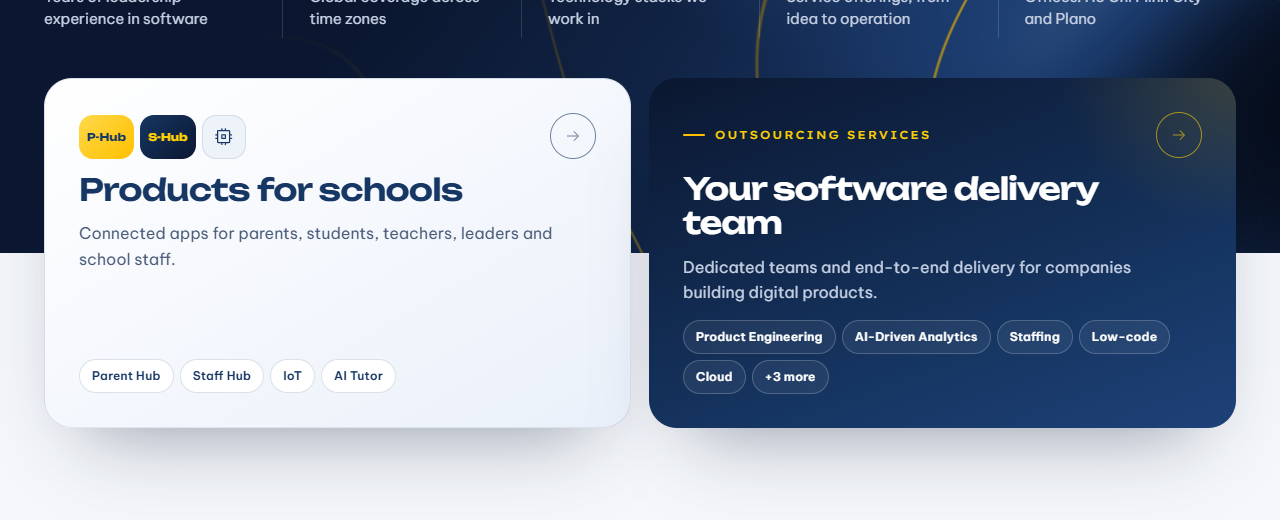
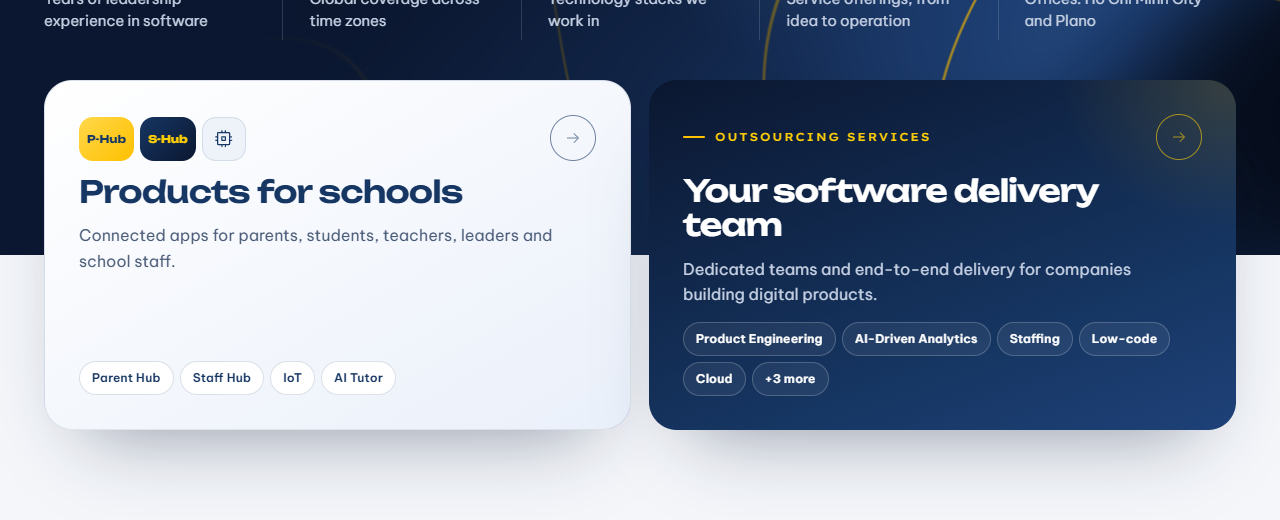
docs: E-S1 Home review triage and re-verified evidence

diff --git a/_bmad-output/implementation-artifacts/spec-enh-s1-home.md b/_bmad-output/implementation-artifacts/spec-enh-s1-home.md
@@ -2,7 +2,7 @@
 title: 'E-S1 Home matches the prototype'
 type: 'feature'
 created: '2026-10-08'
-status: 'in-progress'
+status: 'in-review'
 route: 'dispatch'
 review_loop_iteration: 0
 baseline_commit: 'c8cb49cd8a71bebd2924cfad013d52a8155e0745'
@@ -112,7 +112,7 @@ stay as they are.
 | Capabilities | Load at 1280px | — | "Capabilities." + lede; four cards in two rows (7+5 columns) | Static | CAP-3, `site.css:658-665` |  ✅ walk (689 + 487px rows); `capabilities.test.tsx` |
 | Capabilities | Load at 900px and below | — | One card per row | Static | `site.css:718-729` |  ✅ walk (358px at 390); `a11y.spec.ts` reflow |
 | Global delivery | Load with JS | — | Plano and HCMC chips show live times; without JS "US Central" and "GMT+7" | Ticks each minute | CAP-3, Story 5.1 |  ✅ walk (live times; no-JS zone labels); `capabilities.test.tsx` |
-| "+3" button | Click, then click again | Mouse, touch, pen | Healthcare, Logistics, Private Equity appear, then hide; `aria-expanded` follows | Instant | CAP-3, `site.js:218-222` |  ✅ walk: touch and pen tap twice hide it; mouse: hides when the pointer leaves (hover reveal, as in the prototype); `capabilities.test.tsx` |
+| "+3" button | Click, then click again | Mouse, touch, pen | Healthcare, Logistics, Private Equity appear, then hide; `aria-expanded` follows | Instant | CAP-3, `site.js:218-222` |  ✅ walk (mouse second click and touch second tap hide it); `capabilities.test.tsx`; `a11y.spec.ts` doors/+3 |
 | "+3" button | Enter or Space | Keyboard | Same as click; focus stays on the button | Instant | CAP-3 |  ✅ walk; `capabilities.test.tsx` |
 | "+3" button | Focus leaves the reveal area | Keyboard | List closes | Instant | `site.js:218-222` |  ✅ `capabilities.test.tsx` (focus-out) |
 | "+3" button | No JavaScript | — | Industries readable in the HTML; button name lists them | Static | CAP-3 |  ✅ walk (JS off); `capabilities.test.tsx`; `e2e/home-hero.spec.ts` |
@@ -129,6 +129,43 @@ stay as they are.
 ## Spec Change Log
 
 ## Review Triage Log
+
+| # | Source | Finding | Verdict | Evidence | Route |
+| --- | --- | --- | --- | --- | --- |
+| 1 | acceptance, edge, blind, verification-gap, Task 6 minor | `more-industries.tsx`: with a mouse hovering, a second click and focus-out flip `aria-expanded` but the list stays shown | medium | `shown = !hydrated \|\| open \|\| hovered`; walk printed "second click: aria-expanded false \| list visible true"; matrix says "click again hides", "focus leaves → closes" | patch |
+| 2 | edge | No Escape to dismiss the revealed list | medium | No key handler in `more-industries.tsx`; hover-revealed content must be dismissible (WCAG 1.4.13) | patch |
+| 3 | edge | Pen hover does not reveal the list (`pointerType` mouse only) | false | Spec UX line gives pen the click path; pen click toggles | reject |
+| 4 | edge | `INDUSTRY_ICON` typed `Record<string, Icon>` lets a new industry render an undefined component | low | Content is static today, but the fix is a direct type correction | patch |
+| 5 | edge | Hard-coded 120px overhang can drift from card height | maybe-false | Prototype uses the same fixed 120px; walk shows the join correct at 1280 and 390; would only be low | reject |
+| 6 | edge | Light `::before` on `.doors` is wrap-width, leaving navy strips at the sides | false | `home-1280-doors-edge.png` shows the light surface full width below the card middle (the flow wrapper continues it) | reject |
+| 7 | acceptance, edge, verification-gap, blind | Walk output contradicts `observed.md` (doors 1 column, navy middle false, link not on row) | medium | Walk measured `.doors` instead of the grid, the hero box instead of the `::before` light layer, and overlap with the H2 only; screenshots show the page is right | patch (walk + Re-verify) |
+| 8 | verification-gap | No browser test for the hero/doors join and the reveal visibility | medium | Only CSS-text and class assertions; jsdom cannot see layering | patch (Playwright `@a11y` test) |
+| 9 | verification-gap | `observed.md` claims touch taps but the 390 walk context had no `hasTouch` | medium | `open(390)` had no `hasTouch`; the touch result came from a separate probe | patch (walk) |
+| 10 | Task 4 minor | Button name "3 more industries…" lacks visible "+3" | low | WCAG 2.5.3 label in name; direct string correction | patch |
+| 11 | Task 3 minor | "No label" test only catches `.label + h1` | low | Direct test correction | patch |
+| 12 | Task 3 minor | Redundant `padding-left: 0` at ≤560px | low | `sm:` utilities start at 640px; deletion | patch |
+| 13 | Task 5 minor | Heading id asserted only as not About's | low | Direct test correction | patch |
+| 14 | Task 6 minor | Server-open list collapses on hydration (layout shift) | low | Below the fold at every width; the fix (`@media (scripting: none)`) adds complexity and must satisfy `contrast.test.ts` | defer |
+| 15 | Task 4 minor | `.w-more:hover` sticky on touch at ≤640px | maybe-false | Real touch taps hide on the second tap in the walk; would only be low | reject |
+| 16 | Task 1 minor, blind | Services title duplicates the old Home string | low | E-S2 replaces the Services title; no user-facing harm | reject |
+| 17 | Task 2 minor, blind | `aboutValues`/`AboutValue` names and `homeValuesHeading` duplicate About's label/title | low | E-S3 removes About's values section and can rename; no user-facing harm | reject |
+| 18 | Task 2 minor | `homeValuesHeading` untested | false | `home-values.test.tsx` asserts the region "Our core values." and lede | reject |
+| 19 | Task 5 minor | Transparent background pending the wrapper | false | Task 6 added `.home-flow`; walk shows sections transparent on one gradient | reject |
+| 20 | Task 7 minor | "How we approach." checked as a raw-HTML substring | low | Presence check for no-JS HTML; unit tests assert the heading role | reject |
+| 21 | blind | "Get in touch" goes to `/demo` | false | Frozen intent: fallback until E-A4 adds `#contact` | reject |
+| 22 | blind | AI Tutor chip and new process/motto copy have no source | false | Frozen intent: copy verbatim from the approved prototype (ENH-086/087) | reject |
+| 23 | blind | Services lost "open progress updates" | false | Frozen intent: one long step copy shared by Home and Services | reject |
+| 24 | blind | Capabilities copy quality (bare noun, fragments) | false | Verbatim prototype copy (frozen) | reject |
+| 25 | blind | Product names elsewhere still PXP/LXP/SXP | false | Out of this intent: E-A2 renames site-wide | reject |
+| 26 | blind | Identical PNG hashes for no-JS and opened state | false | Both captures show the same rendered state (list open, same card); separate runs, recomputed by the auditor | reject |
+| 27 | blind | Absolute paths in the ledger | false | Ledger contract requires the absolute spec path in its identity line; same as earlier specs | reject |
+| 28 | blind | 3 MB of PNG evidence committed | low | Same practice as Stories 5.1–6.4; reviewers use them | reject |
+| 29 | blind | No `docs/ai-log.md` entry | low | Project hand-in rule; added before the PR | patch (docs, at PR) |
+| 30 | blind | No EXPERIENCE.md / ux-checks.md updates | false | Prototype README: UX specs are not edited for prototype changes; the log is the hand-off | reject |
+| 31 | blind | No 768px screenshot | low | Walk measured 3 columns at 768; not required | reject |
+| 32 | edge | Services step 03 receive line also changed | false | Intended: Services takes the shared long copy | reject |
+| 33 | security | Clean | — | No sources, sinks, secrets or dependency changes | — |
+| 34 | patch re-review | Escape works only with focus inside the reveal; a hover-only reveal with focus elsewhere is not dismissible by Escape | low | Moving the pointer away dismisses it; a document-level key listener adds complexity; prototype behaves the same | defer |
 
 ## Design Notes
 
@@ -160,34 +197,37 @@ Process copy moves into `processFlow` once so Home and Services cannot drift:
 
 ## Acceptance Evidence
 
-Captured at the end of step-03 on 2026-10-08.
+Captured after the step-04 review patches on 2026-10-08 (the step-03 set is history in the ledger).
 
 **Commands**
 
 - `npm run lint && npm run typecheck && npm run format:check` -- exit 0 -- All matched files use Prettier code style!
-- `npm test` -- exit 0 -- Test Files 75 passed (75), Tests 1145 passed (1145)
-- `npm run test:coverage && npm run coverage:diff` -- exit 0 -- Coverage: 100%; C1 ok: 33 changed file(s) with branch coverage >= 80%
+- `npm test` -- exit 0 -- Test Files 75 passed (75), Tests 1148 passed (1148)
+- `npm run test:coverage && npm run coverage:diff` -- exit 0 -- Coverage: 100%; C1 ok: 38 changed file(s) with branch coverage >= 80%
 - `npm run test:smoke` -- exit 0 -- 15 passed
 - `npm run build` -- exit 0 -- Generating static pages (15/15)
-- `npx playwright test --project=a11y -g "Home at 390px"` (added for the Narrow screen matrix row) -- exit 0 -- 1 passed
+- `npx playwright test --project=a11y -g "Home at 390px|doors straddle"` -- exit 0 -- 2 passed
 
 **Observed**
 
-- Every UX line on `/` at 1280px, 768px and 390px, with JavaScript off, and by real touch taps -- production build on :3005 in Chrome, [observed.md](spec-enh-s1-home-evidence/observed.md), [walk-output.txt](spec-enh-s1-home-evidence/walk-output.txt)
+- Every UX line on `/` at 1280px, 768px and 390px, in a touch context, and with JavaScript off -- production build on :3005 in Chrome, [observed.md](spec-enh-s1-home-evidence/observed.md), [walk-output.txt](spec-enh-s1-home-evidence/walk-output.txt)
+- Navy ends at the cards' middle (light layer starts at 1013, the doors' middle); both cards' lower halves hit their links -- same walk and the `doors straddle` browser test
+- "+3" hides on a second mouse click, Tab away, Escape and a second touch tap -- same walk and the browser test
 - `/about` still shows six values; `/services` keeps its process title with the new step 03 copy -- same walk
 
 **Artifacts**
 
 - [verification.txt](spec-enh-s1-home-evidence/verification.txt) -- transcript of the five commands
-- [home-1280-doors-edge.png](spec-enh-s1-home-evidence/home-1280-doors-edge.png) -- doors across the hero edge, navy ends at their middle
+- [browser-tests.txt](spec-enh-s1-home-evidence/browser-tests.txt) -- the two Home browser tests
+- [walk.mjs](spec-enh-s1-home-evidence/walk.mjs) -- the walk that produced every screenshot below
+- [home-1280-doors-edge.png](spec-enh-s1-home-evidence/home-1280-doors-edge.png) -- doors across the hero edge
 - [home-1280-industries-open.png](spec-enh-s1-home-evidence/home-1280-industries-open.png) -- "+3" opened by click
-- [home-1280-process-head.png](spec-enh-s1-home-evidence/home-1280-process-head.png) -- "How we approach." with the link on the heading row
+- [home-1280-process-head.png](spec-enh-s1-home-evidence/home-1280-process-head.png) -- "How we approach." heading row
 - [home-390-industries-tapped.png](spec-enh-s1-home-evidence/home-390-industries-tapped.png) -- "+3" opened by a touch tap
 - [home-nojs-industries.png](spec-enh-s1-home-evidence/home-nojs-industries.png) -- industries visible without JavaScript
-- [home-1280-full.png](spec-enh-s1-home-evidence/home-1280-full.png), [home-390-full.png](spec-enh-s1-home-evidence/home-390-full.png), [home-1280-top.png](spec-enh-s1-home-evidence/home-1280-top.png) -- whole page and hero
+- [home-1280-top.png](spec-enh-s1-home-evidence/home-1280-top.png), [home-1280-full.png](spec-enh-s1-home-evidence/home-1280-full.png), [home-390-full.png](spec-enh-s1-home-evidence/home-390-full.png) -- hero and whole page
 - Byte counts and SHA-256 prefixes are in the ledger `spec-enh-s1-home-progress.md`.
 
 **Not captured**
 
-- Andy's parts of Home (news row, capture band, header "Book a demo") were not checked; they are unchanged by this spec.
-
+- Andy's parts of Home (news row, capture band, header "Book a demo") were not checked; this spec does not change them.

diff --git a/_bmad-output/implementation-artifacts/spec-enh-s1-home-progress.md b/_bmad-output/implementation-artifacts/spec-enh-s1-home-progress.md
@@ -67,3 +67,25 @@ Acceptance: evidence — spec-enh-s1-home-evidence/home-390-industries-tapped.pn
 Acceptance: evidence — spec-enh-s1-home-evidence/home-nojs-industries.png — 32336 bytes — sha256 3497ff8b3c62 — JavaScript off: industries visible (same pixels as the opened state)
 Acceptance: evidence — spec-enh-s1-home-evidence/observed.md — 2920 bytes — sha256 cb6ae9f6257e — per-surface observations
 Acceptance: manual — walk / at 1280 and 390 on a production build (next start -p 3005, Chrome) — observed: every UX line as in observed.md; mouse second click leaves the list shown while hovering, touch second tap hides it; /about shows 6 values; /services keeps its title with the new 03 copy
+Task 6: fix round 2/5 (step-04 review patches: +3 click/focus-out/Escape clear the hover reveal, typed icon map, "+3" in the accessible name, browser test for doors and reveal, stronger hero/values tests, redundant reset removed)
+Task 6: review — pass — 0 critical, 0 important, 1 minor; 0 of 8 patch findings open
+Task 6: minor — src/components/home/more-industries.tsx Escape only with focus inside the reveal (deferred)
+Acceptance: verification — npm run lint && npm run typecheck && npm run format:check — exit 0 — All matched files use Prettier code style!
+Acceptance: verification — npm test — exit 0 — Test Files 75 passed (75), Tests 1148 passed (1148)
+Acceptance: verification — npm run test:coverage && npm run coverage:diff — exit 0 — Coverage: 100%; C1 ok: 38 changed file(s) with branch coverage >= 80%
+Acceptance: verification — npm run test:smoke — exit 0 — 15 passed
+Acceptance: verification — npm run build — exit 0 — Generating static pages (15/15)
+Acceptance: evidence — spec-enh-s1-home-evidence/verification.txt — 7240 bytes — sha256 634130e549aa — transcript of the five declared commands after the review patches, all exit 0
+Acceptance: evidence — spec-enh-s1-home-evidence/browser-tests.txt — 342 bytes — sha256 016c75c47d12 — npx playwright test --project=a11y -g "Home at 390px|doors straddle": 2 passed
+Acceptance: evidence — spec-enh-s1-home-evidence/walk-output.txt — 3535 bytes — sha256 e77022986891 — walk.mjs on the patched production build: every UX line
+Acceptance: evidence — spec-enh-s1-home-evidence/walk.mjs — 12546 bytes — sha256 6f5e541f50d5 — the walk script that produced the screenshots and walk-output.txt
+Acceptance: evidence — spec-enh-s1-home-evidence/home-1280-top.png — 325780 bytes — sha256 f726f328cd01 — hero at 1280
+Acceptance: evidence — spec-enh-s1-home-evidence/home-1280-doors-edge.png — 277674 bytes — sha256 e579b5c649c8 — doors side by side, navy ends at their middle, light card readable
+Acceptance: evidence — spec-enh-s1-home-evidence/home-1280-industries-open.png — 32336 bytes — sha256 3497ff8b3c62 — +3 opened by click
+Acceptance: evidence — spec-enh-s1-home-evidence/home-1280-process-head.png — 63086 bytes — sha256 152292030ca9 — How we approach. with See how we work at the right of the heading row
+Acceptance: evidence — spec-enh-s1-home-evidence/home-1280-full.png — 1440290 bytes — sha256 fab3cbb7651d — whole Home at 1280
+Acceptance: evidence — spec-enh-s1-home-evidence/home-390-full.png — 1164532 bytes — sha256 8f05065553e6 — whole Home at 390
+Acceptance: evidence — spec-enh-s1-home-evidence/home-390-industries-tapped.png — 30490 bytes — sha256 9944dd103b81 — +3 opened by a real touch tap (hasTouch context)
+Acceptance: evidence — spec-enh-s1-home-evidence/home-nojs-industries.png — 32336 bytes — sha256 3497ff8b3c62 — JavaScript off: industries visible
+Acceptance: evidence — spec-enh-s1-home-evidence/observed.md — 3191 bytes — sha256 64b702666238 — per-surface observations matching walk-output.txt
+Acceptance: manual — walk / at 1280, 768 and 390 (touch context) on the patched production build (next start -p 3005, Chrome) — observed: light layer starts at 1013 = door middle; doors 2 columns, lower halves hit their links; +3 hides on second click, Tab away, Escape and second touch tap; See how we work right of the heading block, aligned to the row bottom; /about 6 values; /services title kept with new 03 copy

diff --git a/_bmad-output/implementation-artifacts/spec-enh-s1-home-evidence/observed.md b/_bmad-output/implementation-artifacts/spec-enh-s1-home-evidence/observed.md
@@ -2,21 +2,21 @@
 
 Build from `npm run build` (verification.txt), served with `npx next start -p 3005`, driven by
 `walk.mjs` in Chrome (Playwright, `channel: "chrome"`); `/api/contact` answered by the walk.
-Full walk output: `walk-output.txt`.
+Full walk output: `walk-output.txt`. Browser tests: `browser-tests.txt` (2 passed).
 
 | Surface | Steps | Observed |
 | --- | --- | --- |
 | `/` at 1280px | load | Title "XionTech \| School Platforms & Software Outsourcing in Vietnam"; order hero > Capabilities. > Our core values. > How we approach. > Latest from XionTech. > See it working at your school.; one H1 |
 | Hero | load | H1 "School apps and software teams that get IT done.", highlight amber rgb(255,207,6), `::after` none; no label; 0 device mockups; one button "Get in touch" -> /demo; figures heading "Experience you can count on", 5 columns |
-| Doors | load, screenshot `home-1280-doors-edge.png` | Two cards side by side (grid 587px 587px); the navy ends at the cards' middle (light layer starts 175px into the 350px cards); light card h2 rgb(22,54,99) on light bg; badges P-Hub, S-Hub, IoT icon; chips Parent Hub, Staff Hub, IoT, AI Tutor; dark card kicker "Outsourcing services", chips incl. "+3 more"; links /products and /services |
+| Doors | load, screenshot `home-1280-doors-edge.png` | Two cards side by side (`.doors-grid` 587px 587px); doors 838–1188, middle 1013, light layer starts at 1013, so the navy ends at their middle; a hit-test at 85% of each card's height lands inside its link; light card h2 rgb(22,54,99) on light bg; badges P-Hub, S-Hub, IoT icon; chips Parent Hub, Staff Hub, IoT, AI Tutor; dark card kicker "Outsourcing services", chips incl. "+3 more"; links /products and /services |
 | Products door | Tab from top | Focused with a solid 2px outline |
 | Capabilities | load | H2 "Capabilities." + lede; cards 689px + 487px per row (two rows); clocks "Plano 03:52 HCMC 15:52"; motto "Get IT Done Built with ownership. ..." |
-| "+3" | mouse click | aria-expanded true, list "Healthcare Logistics Private Equity" visible (`home-1280-industries-open.png`); second click: aria-expanded false, list still shown while the mouse hovers (hover reveal, as in the prototype) |
-| "+3" | keyboard Enter, Space | aria-expanded toggles; focus stays on the button |
-| "+3" | real touch taps at 390px (hasTouch) | tap 1: expanded true, visible; tap 2: expanded false, hidden (`home-390-industries-tapped.png`) |
+| "+3" | mouse click | aria-expanded true, list "Healthcare Logistics Private Equity" visible (`home-1280-industries-open.png`); second click with the pointer still over it: aria-expanded false, list hidden |
+| "+3" | keyboard Enter, Tab away, Space, Escape | Enter opens with focus on the button; Tab away closes and hides; Space opens; Escape closes and hides |
+| "+3" | real touch taps at 390px (`hasTouch`, `isMobile` context in `walk.mjs`) | tap 1: expanded true, visible; tap 2: expanded false, hidden (`home-390-industries-tapped.png`) |
 | "+3" | JavaScript disabled | List visible with the three industries; clocks show "US Central" and "GMT+7" (`home-nojs-industries.png`) |
 | Values | load | "Our core values." / "What guides how we work."; six values, "Get IT Done" Attitude featured; no `id="values"` on Home |
-| How we approach | load, `home-1280-process-head.png` | Light (transparent on the flow surface), no label; "See how we work" -> /services#process at the right end of the heading row (aligned to its bottom); at 390px below the heading |
+| How we approach | load, `home-1280-process-head.png` | Light (transparent on the flow surface), no label; "See how we work" -> /services#process inside `.sec-head-row` (1813–1934), right of the heading block (link x 1072–1236, block ends 771), aligned to the row bottom; at 390px below the heading |
 | Removed | load | No bento, no `.svc-grid`, no "Four apps" or "Eight ways" copy |
 | Background | load | `.home-flow` linear-gradient #F4F6FA to #F7F9FD, sections transparent on it: no edges |
 | Widths | 768px, 390px | Figures 3 columns at 768, 2 at 390; doors and Capabilities one column at 390; no sideways scroll at 1280 or 390 (`home-390-full.png`) |

diff --git a/_bmad-output/implementation-artifacts/deferred-work.md b/_bmad-output/implementation-artifacts/deferred-work.md
@@ -284,3 +284,11 @@ Change reviewed: `ux:parity` / `ux:shots`, the `ux-critic` skill and `docs/ux-qu
 - source_spec: `_bmad-output/implementation-artifacts/spec-7-3-accessibility-checks.md`
   summary: Story 7.3 review (Minor): measure ring contrast on the page, not only in the token table; log or fail on axe `incomplete` contrast results; check every required field of each form, not one; scan menus and tabs in their open state and the form error state with axe; walk /careers, a story, a job page, /privacy and 404 by keyboard; document that `test:a11y` needs Chrome and clear `.next/cache/fetch-cache` before it (a `pretest:a11y` step); the date-field ring also shows on mouse focus (`:focus-within`).
   evidence: full review 2026-10-05 (medium points patched; these are Minor).
+
+- source_spec: `_bmad-output/implementation-artifacts/spec-enh-s1-home.md`
+  summary: The Home "+3" industries list renders open in the server HTML and collapses on hydration, a small below-the-fold layout shift on every load.
+  evidence: `src/components/home/more-industries.tsx` sets `shown = !hydrated || …` so the list is readable without JavaScript (required by `src/lib/design/contrast.test.ts` and the spec's no-JS row); a `@media (scripting: none)` rule could open it without the flash but must avoid the hidden-content patterns that test rejects.
+
+- source_spec: `_bmad-output/implementation-artifacts/spec-enh-s1-home.md`
+  summary: The Home "+3" list revealed by mouse hover alone cannot be dismissed with Escape when keyboard focus is elsewhere (WCAG 1.4.13 dismissible).
+  evidence: `src/components/home/more-industries.tsx` handles Escape on the reveal wrapper only; moving the pointer away still hides it. A document keydown listener while the list is shown would close the gap.
